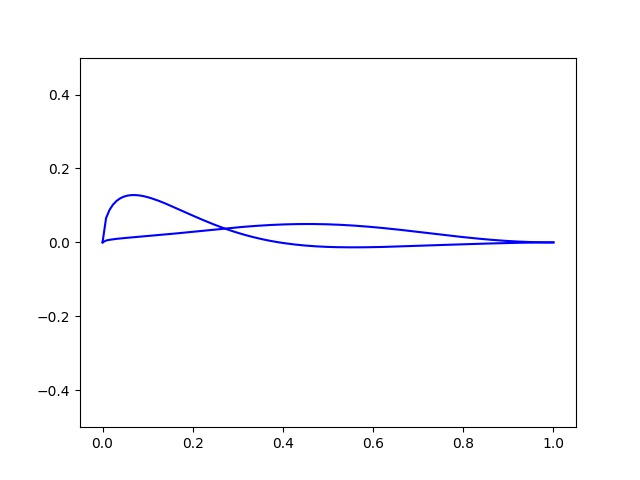
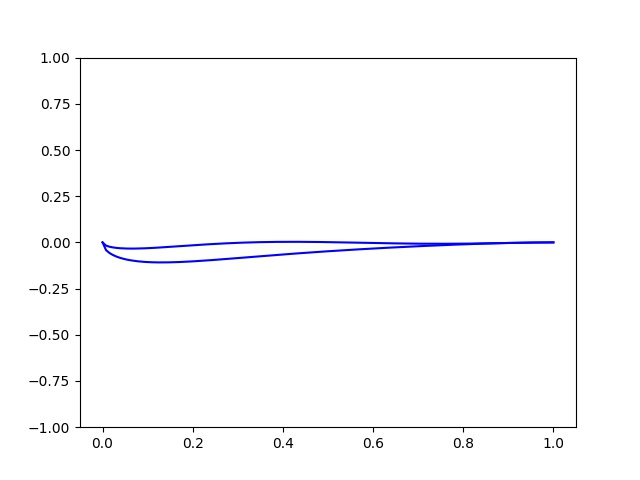
Constraints/L-BFGS-B

diff --git a/projection_optimize/optimizers.py b/projection_optimize/optimizers.py
@@ -18,14 +18,15 @@ class surrogate_optimizer():
         with tf.GradientTape(persistent=True) as t:
             t.watch(input_var)
             # This is the objective function (square of the first variable out)
-            pred = self.model(input_var)[0][0]**2
+            pred = (self.model(input_var)[0][0])**2 + (self.model(input_var)[0][1]-0.3)**2
             
-        return t.gradient(pred, input_var).numpy()[0,:]
+        return t.gradient(pred, input_var).numpy()[0,:].astype('double')
 
     def residual(self,input_var):
+        # [0][0] - Drag, [0][1] - Lift
         input_var = input_var.reshape(1,self.num_pars)       
-        pred = self.model(input_var)[0][0]
-        return ((pred)**2).numpy()
+        pred = (self.model(input_var)[0][0])**2 + (self.model(input_var)[0][1]-0.3)**2 
+        return pred.numpy()
 
     def callbackF(self,Xi):
         sol_array = np.copy(Xi.reshape(1,self.num_pars))
@@ -33,8 +34,8 @@ class surrogate_optimizer():
 
     def single_optimize(self,init_guess):
         self.solution = minimize(self.residual,init_guess,
-                            jac=self.jac_method,method='BFGS',
-                            tol=1e-6,options={'disp': True}, 
+                            jac=self.jac_method,method='L-BFGS-B',
+                            tol=1e-6,options={'disp': True, 'maxiter': 20}, 
                             callback=self.callbackF,constraints=self.cons)
 
     def optimize(self,num_restarts):
@@ -43,7 +44,11 @@ class surrogate_optimizer():
         best_opt = None
         best_optimizer = None
         for start in range(num_restarts):
-            self.init_guess = np.random.uniform(size=(1,self.num_pars))
+            
+            # self.init_guess = np.random.uniform(low=np.asarray([-0.08876, -0.3269, -0.40838, -0.14721, -0.08876, -0.37975, -0.35672, -0.04067]),\
+            #                                     high=np.asarray([0.1648, 0.6071, 0.75842, 0.27339, 0.1648, 0.70525 , 0.66248, 0.07553]))
+            
+            self.init_guess = np.asarray([0.1268, 0.467, 0.5834, 0.2103, -0.1268, -0.5425, -0.5096, 0.0581])
             self.single_optimize(self.init_guess)
 
             # Print solution

diff --git a/projection_optimize/constraints.py b/projection_optimize/constraints.py
@@ -1,0 +1,68 @@
+'''
+Define constraints (depends on your problem)
+https://stackoverflow.com/questions/42303470/scipy-optimize-inequality-constraint-which-side-of-the-inequality-is-considered
+[0.1268 0.467 0.5834 0.2103 -0.1268 -0.5425 -0.5096 0.0581] . The bounds are +/-30% of this.
+''' 
+t_base = [0.1268, 0.467, 0.5834, 0.2103, -0.1268, -0.5425, -0.5096, 0.0581]
+t_lower = [-0.08876, -0.3269, -0.40838, -0.14721, 0.1648, 0.70525, 0.66248, -0.04067]
+t_upper = [0.1648, 0.6071, 0.75842, 0.27339, -0.08876, -0.37975, -0.35672, 0.07553]
+
+def con_0_lower(t):
+    return t[0]+t_lower[0]
+def con_0_upper(t):
+    return -t[0]+t_upper[0]
+
+def con_1_lower(t):
+    return t[1]+t_lower[1]
+def con_1_upper(t):
+    return -t[1]+t_upper[1]
+
+def con_2_lower(t):
+    return t[2]+t_lower[2]
+def con_2_upper(t):
+    return -t[2]+t_upper[2]
+
+def con_3_lower(t):
+    return t[3]+t_lower[3]
+def con_3_upper(t):
+    return -t[3]+t_upper[3]
+
+def con_4_lower(t):
+    return t[4]+t_lower[4]
+def con_4_upper(t):
+    return -t[4]+t_upper[4]
+
+def con_5_lower(t):
+    return t[5]+t_lower[5]
+def con_5_upper(t):
+    return -t[5]+t_upper[5]
+
+def con_6_lower(t):
+    return t[6]+t_lower[6]
+def con_6_upper(t):
+    return -t[6]+t_upper[6]
+
+def con_7_lower(t):
+    return t[7]+t_lower[7]
+def con_7_upper(t):
+    return -t[7]+t_upper[7]
+
+cons = ({'type':'ineq', 'fun': con_0_lower},\
+        {'type':'ineq', 'fun': con_0_upper},\
+        {'type':'ineq', 'fun': con_1_lower},\
+        {'type':'ineq', 'fun': con_1_upper},\
+        {'type':'ineq', 'fun': con_2_lower},\
+        {'type':'ineq', 'fun': con_2_upper},\
+        {'type':'ineq', 'fun': con_3_lower},\
+        {'type':'ineq', 'fun': con_3_upper},\
+        {'type':'ineq', 'fun': con_4_lower},\
+        {'type':'ineq', 'fun': con_4_upper},\
+        {'type':'ineq', 'fun': con_5_lower},\
+        {'type':'ineq', 'fun': con_5_upper},\
+        {'type':'ineq', 'fun': con_6_lower},\
+        {'type':'ineq', 'fun': con_6_upper},\
+        {'type':'ineq', 'fun': con_7_lower},\
+        {'type':'ineq', 'fun': con_7_upper},)
+
+if __name__ == '__main__':
+    print('Constraints file')

diff --git a/projection_optimize/nn_opt.py b/projection_optimize/nn_opt.py
@@ -3,7 +3,7 @@ import tensorflow as tf
 tf.random.set_seed(10)
 
 import numpy as np
-np.random.seed(10)
+np.random.seed(100)
 import matplotlib.pyplot as plt
 
 from surrogate_models import coefficient_model, coefficient_model_adjoint
@@ -27,6 +27,7 @@ if __name__ == '__main__':
     adjoint_data = np.zeros(shape=(170,8)).astype('float32') # placeholder
     field_data = np.load('pressure_data.npy').astype('float32')
 
+
     # Define a simple fully connected model
     if args.adjoint_mode == 'augmented':
         model=coefficient_model_adjoint(input_data,output_data,adjoint_data)
@@ -41,20 +42,12 @@ if __name__ == '__main__':
 
     if args.mode == 'optimize':
         # gradient-based Perform optimization
-        '''
-        Define constraints (depends on your problem)
-        https://stackoverflow.com/questions/42303470/scipy-optimize-inequality-constraint-which-side-of-the-inequality-is-considere
-        ''' 
-        def con_1(t):
-            return t[0]-0.1
-        def con_2(t):
-            return t[1]-0.1
-        cons = ({'type':'ineq', 'fun': con_1},{'type':'ineq', 'fun': con_2})
+        from constraints import cons
 
         # Initialize optimizer
         num_pars = np.shape(input_data)[1]
         opt = surrogate_optimizer(model,num_pars,cons)
-        best_func_val, solution, best_opt = opt.optimize(10) # Optimize with 10 restarts
+        best_func_val, solution, best_opt = opt.optimize(20) # Optimize with 10 restarts
         
         # Visualize airfoil shape evolution
         for i in range(1,np.shape(best_opt)[0]):
@@ -83,7 +76,7 @@ if __name__ == '__main__':
         env_params['init_guess'] = np.random.uniform(size=(np.shape(input_data)[1]))
         env_params['model_type'] = 'regular'
 
-        rl_opt = rl_optimize(env_params,args.adjoint_mode,10) # 10 iteration optimization
+        rl_opt = rl_optimize(env_params,args.adjoint_mode,20) # 10 iteration optimization
 
         f = open('rl_checkpoint','r')
         checkpoint_path = f.readline()

diff --git a/projection_optimize/surrogate_environments.py b/projection_optimize/surrogate_environments.py
@@ -5,6 +5,7 @@ import numpy as np
 np.random.seed(10)
 from gym import spaces
 from surrogate_models import coefficient_model, coefficient_model_adjoint
+from constraints import t_lower, t_upper
 
 """
 State:
@@ -38,16 +39,16 @@ class airfoil_surrogate_environment(gym.Env):
         print('Observation parameter dimension : ', self.num_obs)
 
 
-        lbo = -10.0*np.ones(shape=2)
-        ubo = 10*np.ones(shape=2)
+        lbo = -1+np.zeros(shape=2)
+        ubo = 1+np.ones(shape=2)
         self.observation_space = spaces.Box(low=lbo,high=ubo,dtype='double')
 
-        lba = -10.0*np.ones(shape=8)
-        uba = 10*np.ones(shape=8)
+        lba = np.asarray(t_lower)
+        uba = np.asarray(t_upper)
         self.action_space = spaces.Box(low=lba,high=uba,dtype='double')
 
         # initialization
-        self.max_iters = 100
+        self.max_iters = 5
         self.start_coeffs = self.model.predict(self.init_guess.reshape(1,self.num_params))[0,:] # This is the initial observation
         self.coeffs = self.start_coeffs
        
@@ -72,16 +73,16 @@ class airfoil_surrogate_environment(gym.Env):
         # Need to use surrogate model (NN based) to calculate coefficients
         input_var = self.shape_vec.reshape(1,self.num_params)        
         obs =  self.model.predict(input_var)[0,:]
-        pred = self.model.predict(input_var)[0,0]
+        pred = self.model.predict(input_var)[0,0]**2 + (self.model.predict(input_var)[0,1]-0.3)**2
 
         self.coeffs = obs
         self.coeffs_path.append(obs)
       
         if self.iter < self.max_iters:
-            reward = 1.0-(pred)**2
+            reward = -pred
             done = False
         else:
-            reward = 1.0-(pred)**2
+            reward = -pred
             done = True
         
         return obs, reward, done , {}

diff --git a/projection_optimize/surrogate_models.py b/projection_optimize/surrogate_models.py
@@ -81,11 +81,12 @@ class coefficient_model(Model):
                 output_batch = self.output_data_train[batch*20:(batch+1)*20]
                 self.network_learn(input_batch,output_batch)
 
-                print('Test loss:',self.get_loss(self.input_data_test,self.output_data_test).numpy())
+                
 
             # Check accuracy
             if r2_iter == 10:
                 predictions = self.call(self.input_data_test)
+                print('Test loss:',self.get_loss(self.input_data_test,self.output_data_test).numpy())
                 print('Test loss:',self.get_loss(self.input_data_test,self.output_data_test))
                 r2 = coeff_determination(predictions,self.output_data_test)
                 print('Test R2:',r2)
@@ -164,13 +165,13 @@ class coefficient_model_adjoint(Model):
     def get_grad(self,X,Y,A):
         with tf.GradientTape() as tape:
             tape.watch(self.trainable_variables)
-            L = self.get_augmented_loss(X,Y,A)
+            L = self.get_loss(X,Y,A)
             g = tape.gradient(L, self.trainable_variables)
         return g
 
     # perform gradient descent - adjoint enhanced
     def network_learn(self,X,Y,A):
-        g = self.get_augmented_grad(X,Y,A)
+        g = self.get_grad(X,Y,A)
         self.train_op.apply_gradients(zip(g, self.trainable_variables))
 
     # Train the model

diff --git a/projection_optimize/utils.py b/projection_optimize/utils.py
@@ -40,11 +40,27 @@ def shape_return(a,pnum):
         S_down = S_down + a[N+i]*(xi**i)*(x1 - xi)**(N-i)
 
     plt.figure()
-    plt.plot(xi,c_vec*S_up,color='blue')
-    plt.plot(np.flip(xi),np.flip(c_vec*S_down),color='blue')
-    plt.ylim((-0.5,0.5))
+    plt.plot(np.flip(xi),np.flip(c_vec*S_up),color='blue')
+    plt.plot(xi,c_vec*S_down,color='blue')
+    plt.ylim((-1.0,1.0))
     plt.savefig('Shapes/Shape_'+str(pnum)+'.jpeg')
     plt.close()
 
 if __name__ == '__main__':
-    pass
+    print('Checking plotting of airfoil')
+    t_base = np.asarray([0.1268, 0.467, 0.5834, 0.2103, -0.1268, -0.5425, -0.5096, 0.0581])
+    t_lower = np.asarray([-0.08876, -0.3269, -0.40838, -0.14721, 0.1648, 0.70525, 0.66248, -0.04067])
+    t_upper = np.asarray([0.1648, 0.6071, 0.75842, 0.27339, -0.08876, -0.37975, -0.35672, 0.07553])
+
+    # Lower bound
+    pnum = 'lower'
+    shape_return(t_lower,pnum)
+
+    # Base
+    pnum = 'base'
+    shape_return(t_base,pnum)
+
+    # Upper bound
+    pnum = 'upper'
+    shape_return(t_upper,pnum)
+

diff --git a/projection_optimize/rl_optimizers.py b/projection_optimize/rl_optimizers.py
@@ -91,11 +91,12 @@ class rl_optimize():
         f.close()
 
     def optimize_shape(self):
-        action = np.random.uniform(size=(self.action_shape))
+        # action = np.random.uniform(size=(self.action_shape))
+        action = np.asarray([0.1268, 0.467, 0.5834, 0.2103, -0.1268, -0.5425, -0.5096, 0.0581])
 
         self.path = []
         self.obs_path = []
-        for _ in range(10):
+        for _ in range(30):
             obs = self.model.predict(action.reshape(1,self.action_shape))[0,:]
             action = self.trainer.compute_action(obs)
 
